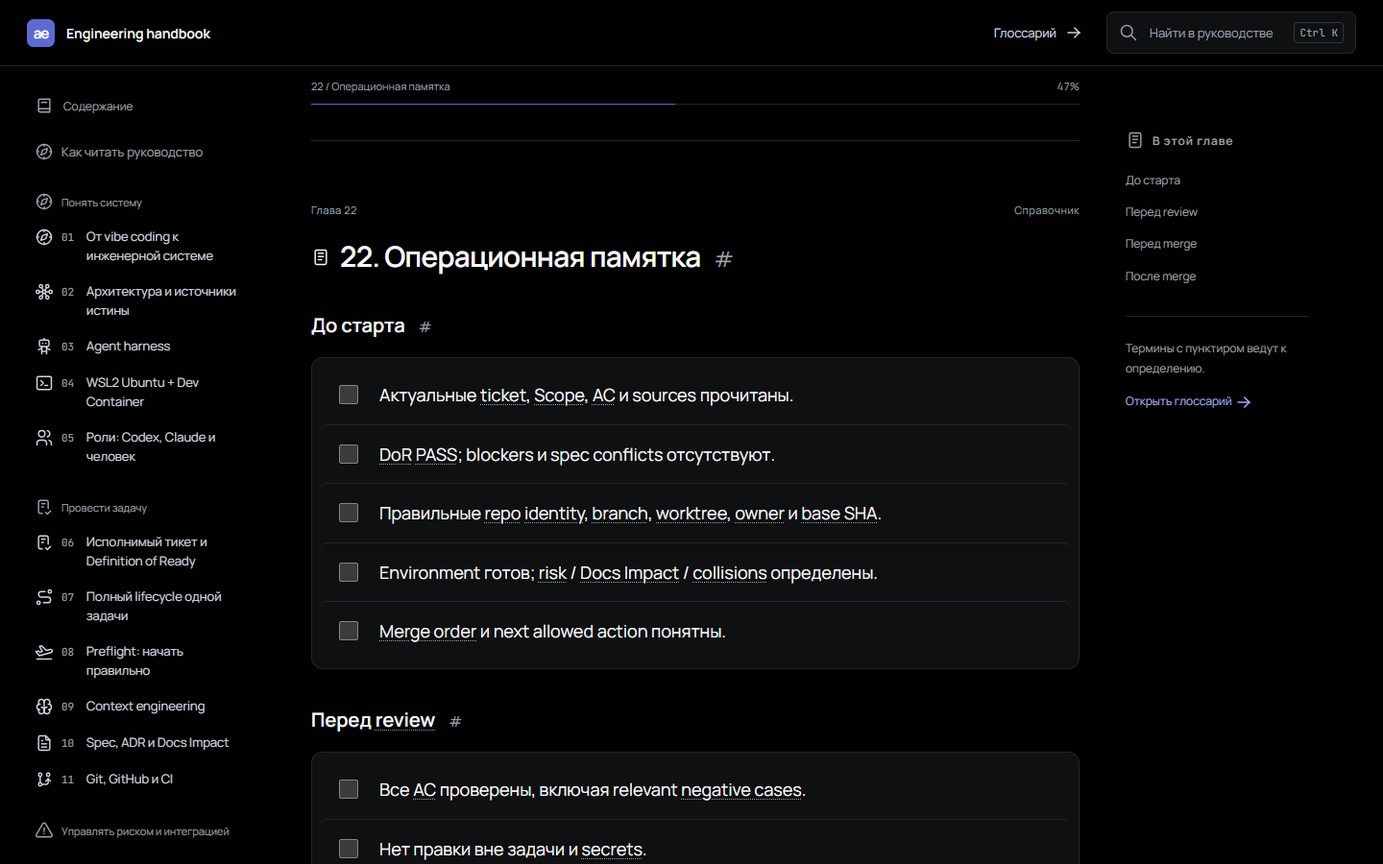
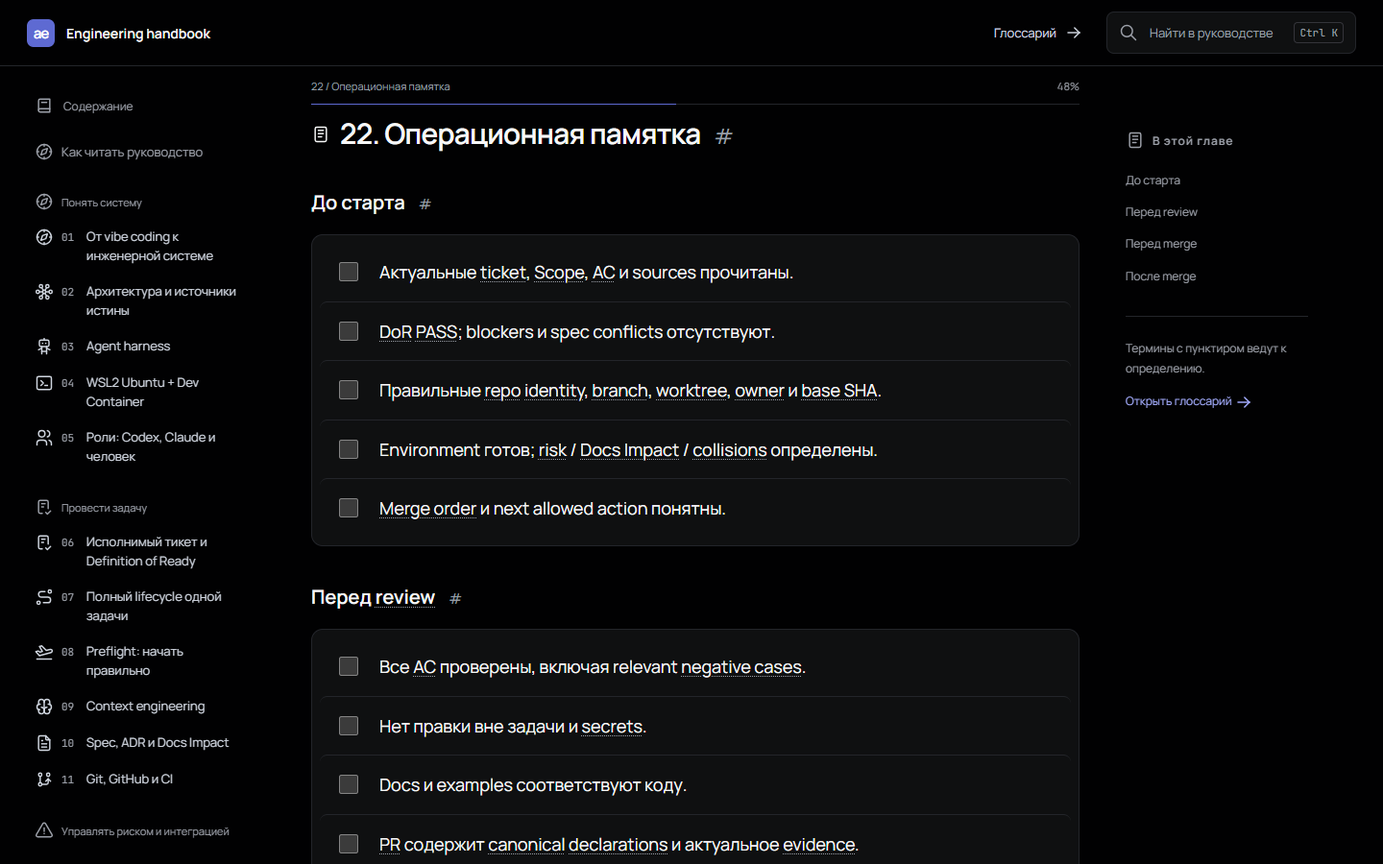
Update Site source

diff --git a/app/globals.css b/app/globals.css
@@ -5,7 +5,7 @@
 @font-face{font-family:'JetBrains Mono';src:url('/fonts/jetbrains-mono-latin-400.woff2') format('woff2');font-weight:400;font-display:swap}
 @font-face{font-family:'JetBrains Mono';src:url('/fonts/jetbrains-mono-cyrillic-400.woff2') format('woff2');font-weight:400;font-display:swap;unicode-range:U+0400-045F,U+0490-0491,U+04B0-04B1,U+2116}
 :root{color-scheme:dark;--canvas:#010102;--surface:#0f1011;--elevated:#141516;--text:#f7f8f8;--muted:#d0d6e0;--subtle:#9ca0a9;--line:#23252a;--strong-line:#34343a;--accent:#5e6ad2;--link:#a4adff;--focus:#a4adff;--body:1.125rem;--radius:12px;--icon-size:20px}
-*{box-sizing:border-box}html{scroll-padding-top:120px}body{margin:0;background:var(--canvas);color:var(--text);font-family:Manrope,'Segoe UI',sans-serif;-webkit-font-smoothing:antialiased;-moz-osx-font-smoothing:grayscale}button,input,select{font:inherit}button{cursor:pointer;color:var(--text);background:var(--surface);border:1px solid var(--strong-line);border-radius:8px;min-height:44px;padding:9px 14px}button:hover{background:var(--elevated)}a{color:var(--link);text-underline-offset:3px}a:hover{color:var(--text)}:focus-visible{outline:2px solid var(--focus);outline-offset:4px}input:not([type="checkbox"]):not([type="radio"]),select{color:var(--text);background:var(--canvas);border:1px solid var(--strong-line);border-radius:8px;padding:12px;min-height:44px;min-width:0;width:100%;font-size:1rem}label{font-size:.875rem}h1,h2,h3,h4,p{margin-top:0}h1,h2,h3{text-wrap:balance}::selection{background:#383f83;color:#fff}[hidden]{display:none!important}svg{flex-shrink:0}button svg,a svg{vertical-align:middle}.sr-only{position:absolute;width:1px;height:1px;padding:0;margin:-1px;overflow:hidden;clip:rect(0,0,0,0);white-space:nowrap;border:0}.skip-link{position:fixed;z-index:100;top:-80px;left:16px;background:var(--surface);padding:12px}.skip-link:focus{top:12px}.eyebrow{font-size:.75rem;letter-spacing:.08em;color:var(--subtle);font-weight:600}.topbar{position:sticky;top:0;z-index:20;background:var(--canvas);border-bottom:1px solid var(--line);min-height:68px;padding:12px 28px;display:flex;align-items:center;justify-content:space-between;gap:16px}.wordmark{display:flex;align-items:center;gap:12px;color:var(--text);text-decoration:none;font-size:.875rem;font-weight:600}.monogram{width:29px;height:29px;background:var(--accent);color:white;border-radius:7px;display:grid;place-items:center;font-size:15px;letter-spacing:-1px}.header-actions{display:flex;align-items:center;gap:24px}.header-glossary{color:var(--muted);text-decoration:none;font-size:.8125rem;display:flex;gap:8px;align-items:center}.search-trigger{display:flex;align-items:center;gap:12px;font-size:.8125rem;color:var(--subtle);padding:8px 12px;min-width:260px;justify-content:flex-start;border-color:var(--line)}kbd{font:11px 'JetBrains Mono',monospace;border:1px solid var(--strong-line);padding:3px 5px;border-radius:4px;margin-inline-start:auto}.menu-trigger{display:none}.reading-shell{display:grid;grid-template-columns:248px minmax(0,800px) 190px;gap:48px;max-width:1440px;margin:auto;padding:0 28px}.sidebar{position:sticky;top:92px;align-self:start;max-height:calc(100dvh - 116px);overflow-y:auto;scrollbar-width:thin;padding:8px 12px 24px 0}.sidebar-label{display:flex;gap:10px;align-items:center;font-size:.75rem;color:var(--subtle);margin:0 0 20px 8px}.orientation-link{display:block;font-size:.8125rem;color:var(--subtle);padding:8px;text-decoration:none}.nav-group{margin-top:24px}.nav-group>p{color:var(--subtle);font-size:.6875rem;margin:0 8px 8px}.nav-group a{display:flex;gap:12px;padding:9px 8px;font-size:.8125rem;line-height:1.5;color:var(--muted);text-decoration:none;border-radius:6px}.nav-group a:hover{background:var(--surface)}.nav-group a[aria-current]{background:var(--elevated);color:var(--text);box-shadow:inset 2px 0 var(--accent)}.chapter-number{font:11px 'JetBrains Mono',monospace;color:var(--subtle);padding-top:3px}.download{display:flex;align-items:center;gap:10px;margin-top:28px;padding:12px 8px;font-size:.8125rem;text-decoration:none;border-top:1px solid var(--line);color:var(--muted)}.sidebar-meta{font-size:.6875rem;line-height:1.7;color:var(--subtle);padding:8px}.reading-column{min-width:0}.chapter-sticky{position:sticky;top:68px;z-index:10;background:var(--canvas);padding:14px 0 12px;display:flex;justify-content:space-between;gap:16px;font-size:.6875rem;color:var(--subtle)}.chapter-sticky>span:first-child{overflow:hidden;text-overflow:ellipsis;white-space:nowrap}.progress-label{font-variant-numeric:tabular-nums;flex-shrink:0}.progress-track{height:1px;position:absolute;bottom:0;left:0;right:0;background:var(--line)}.progress-track div{background:var(--accent);height:100%}.local-outline{position:sticky;top:130px;align-self:start;padding-top:6px}.local-outline nav{display:flex;flex-direction:column;gap:14px;margin-top:22px}.local-outline nav a{font-size:.75rem;line-height:1.6;color:var(--subtle);text-decoration:none}.outline-note{margin-top:32px;padding-top:22px;border-top:1px solid var(--line);font-size:.75rem;line-height:1.8;color:var(--subtle)}.outline-note a{display:inline-block;margin-top:12px;text-decoration:none}.intro{padding:58px 0 24px}.intro-label{display:flex;gap:8px;align-items:center;margin-bottom:24px}.small-mark{width:5px;height:5px;background:var(--accent);border-radius:50%}.intro h1{font-size:clamp(2rem,3.3vw,3rem);font-weight:600;letter-spacing:-1.6px;line-height:1.17;margin-bottom:22px}.heading-dot{color:var(--accent)}.intro-description{color:var(--muted);font-size:1rem;line-height:1.8;max-width:590px;margin-bottom:24px}.intro-actions{display:flex;align-items:center;gap:24px;flex-wrap:wrap}.intro-actions a{display:flex;align-items:center;gap:24px;text-decoration:none;font-size:.8125rem;color:var(--muted);min-height:44px}.intro-actions .primary-action{padding:11px 16px;background:var(--accent);color:white;border-radius:8px}.intro-actions .primary-action:hover{background:#4d58be}.intro-meta{display:flex;justify-content:space-between;gap:16px;font-size:.6875rem;color:var(--subtle);border-top:1px solid var(--line);padding-top:22px;margin-top:32px}.reader-prose{font-size:var(--body);line-height:1.7;overflow-wrap:anywhere}.reader-prose p,.reader-prose ul,.reader-prose ol{margin-bottom:1.4em}.reader-prose h2{font-size:1.85rem;letter-spacing:-.7px;font-weight:600;line-height:1.3;margin:0 0 26px}.reader-prose h3{font-size:1.25rem;font-weight:600;line-height:1.5;margin:38px 0 18px}.reader-prose h4{font-size:1rem;font-weight:600;line-height:1.6}.reader-prose li{padding-inline-start:3px;margin-bottom:10px}.reader-prose ul,.reader-prose ol{padding-inline-start:23px}.reader-prose strong{font-weight:600;color:var(--text)}.reader-prose blockquote{padding:8px 20px;border-inline-start:2px solid var(--accent);margin:24px 0;color:var(--muted)}.reader-prose hr{border:0;border-top:1px solid var(--line);margin:40px 0}.reader-prose .term-link,.interactive-panel .term-link{color:inherit;text-decoration-line:underline;text-decoration-style:dotted;text-decoration-color:var(--subtle);text-decoration-thickness:1px;text-underline-offset:3px}.term-link:hover{color:var(--link)!important}.reader-prose code{font-family:'JetBrains Mono',Consolas,monospace;font-size:.83em;background:var(--surface);padding:2px 5px;border-radius:4px}.reader-prose pre{max-width:100%;overflow-x:auto;margin:0;padding:20px;line-height:1.7;white-space:pre}.reader-prose pre code{font-size:.8125rem;padding:0;background:none}.source-title{display:none}.orientation{font-size:.9375rem;color:var(--muted);padding-top:16px}.orientation h2{font-size:1.375rem}.orientation h3{font-size:1.1rem}.chapter{padding-top:64px;border-top:1px solid var(--line);margin-top:48px;scroll-margin-top:120px}.chapter-kicker{display:flex;justify-content:space-between;color:var(--subtle);font-size:.6875rem;letter-spacing:.04em;margin-bottom:22px}.permalink{font-size:.75em;color:var(--subtle);font-weight:400;padding:6px;margin-inline-start:8px;text-decoration:none}.reader-prose [id],#top,[id$='-panel']{scroll-margin-top:128px}.table-scroll{overflow-x:auto;margin:24px 0 32px;border:1px solid var(--line);border-radius:8px;max-width:100%;scrollbar-width:thin}.table-scroll table{border-collapse:collapse;width:100%;min-width:560px;font-size:.875rem;line-height:1.7}.table-scroll th{background:var(--surface);text-align:start;font-weight:600;color:var(--muted)}.table-scroll td,.table-scroll th{padding:14px 16px;border-bottom:1px solid var(--line);vertical-align:top}.table-scroll tr:last-child td{border-bottom:0}.table-scroll:after{content:'↔ Таблицу можно прокрутить';display:block;font-size:.6875rem;color:var(--subtle);padding:8px 16px;background:var(--surface)}.deep-dive{background:var(--surface);border:1px solid var(--line);border-radius:var(--radius);margin:24px 0}.deep-dive>summary{cursor:pointer;padding:15px 18px;font-size:.8755rem;color:var(--muted)}.code-toolbar{display:flex;align-items:center;justify-content:space-between;gap:12px;font:11px 'JetBrains Mono',monospace;padding:12px 18px;border-block:1px solid var(--line);color:var(--subtle)}.code-toolbar button{font-size:.75rem;min-height:36px}.code-terms{font-size:.75rem!important;line-height:1.8!important;color:var(--subtle);padding:14px 18px;border-top:1px solid var(--line);margin:0!important}.mermaid-figure{margin:32px 0;border:1px solid var(--line);border-radius:var(--radius);background:var(--surface);padding:18px 0}.mermaid-figure figcaption{font-size:.75rem;color:var(--subtle);padding:0 18px;margin-bottom:16px}.diagram-render{overflow:auto;padding:12px}.diagram-render svg{max-width:100%;height:auto}.diagram-source{font-size:.75rem;color:var(--muted)}.diagram-source summary{padding:12px 18px;cursor:pointer}.diagram-source pre{font-size:.75rem}.mermaid-figure:not(.diagram-ready) .diagram-source>pre{display:block}.interactive-panel{margin-top:36px;border:1px solid var(--strong-line);background:var(--surface);border-radius:16px;padding:24px}.panel-heading h3{font-size:1.375rem;line-height:1.4;margin:12px 0 24px;letter-spacing:-.4px}.panel-workspace{display:grid;grid-template-columns:minmax(160px,1fr) minmax(0,1.7fr);gap:24px}.node-list{display:flex;flex-direction:column;gap:9px}.node-list button{text-align:start;position:relative;display:flex;align-items:center;gap:12px;font-size:.8125rem;line-height:1.4;background:var(--canvas);border-color:var(--line);padding:12px}.node-list button[aria-pressed=true]{border-color:var(--accent);background:#181a2b}.node-number{font:10px 'JetBrains Mono',monospace;color:var(--subtle)}.node-arrow{position:absolute;bottom:-11px;left:21px;font-size:10px;color:var(--subtle);z-index:1}.panel-detail{border:1px solid var(--line);border-radius:12px;padding:22px;align-self:start;min-width:0}.panel-detail h4{font-size:1.25rem;line-height:1.4;margin:16px 0}.panel-detail p,.scenario-result p{font-size:.875rem;line-height:1.9;color:var(--muted);overflow-wrap:anywhere;margin:0}.panel-chapter{display:block;font-size:.75rem;text-decoration:none;margin-top:24px}.static-panel{font-size:.8125rem;line-height:1.8;margin-top:22px;color:var(--muted)}.static-panel summary{cursor:pointer;min-height:44px;padding:12px 0}.static-panel h4{margin:18px 0 8px;font-weight:600}.scenarios{border:0;padding:0;margin:0 0 24px;display:flex;gap:12px;flex-wrap:wrap}.scenarios legend{font-size:.75rem;color:var(--subtle);margin-bottom:12px}.scenarios label{display:flex;gap:8px;align-items:center;font-size:.75rem;padding:8px 10px;border:1px solid var(--strong-line);border-radius:8px;min-height:44px;cursor:pointer}.scenarios input{width:15px;min-height:auto;margin:0;accent-color:var(--accent)}.scenario-result{border-top:1px solid var(--line);padding-top:20px;margin-top:24px}.collision-diagram{width:100%;color:var(--link);margin-top:20px;font:12px 'JetBrains Mono',monospace}.maturity .panel-workspace{grid-template-columns:1fr}.maturity .node-list{flex-direction:row;flex-wrap:wrap}.maturity .node-list button{flex:1 0 150px}.maturity .node-arrow{display:none}.chapter-pagination{display:grid;grid-template-columns:1fr 1fr;gap:24px;margin-top:40px;padding-top:24px;border-top:1px solid var(--line)}.chapter-pagination a{text-decoration:none;display:flex;flex-direction:column;gap:8px;color:var(--muted);font-size:.8125rem;line-height:1.6}.chapter-pagination a:last-child{text-align:end}.chapter-pagination span{color:var(--subtle);font-size:.6875rem}.chapter-pagination strong{font-weight:400}.glossary-list{margin:20px 0}.term-definition{padding:22px 0;border-bottom:1px solid var(--line);scroll-margin-top:128px}.term-definition h4{margin:0 0 10px;font-size:.9375rem;line-height:1.8;font-weight:400;color:var(--subtle)}.term-definition h4 strong{color:var(--text)}.term-definition p{font-size:.9375rem;line-height:1.85;color:var(--muted);margin:0}.term-arrival,.term-definition:target{background:#181a2b;outline:1px solid var(--accent);outline-offset:8px;border-radius:4px}.js-enabled .term-definition:target:not(.term-arrival){background:transparent;outline:0}.glossary-filter{background:var(--surface);border:1px solid var(--line);border-radius:12px;padding:24px;margin:24px 0}.glossary-filter h3{font-size:1.125rem}.filter-fields{display:flex;gap:16px;flex-wrap:wrap}.filter-fields label{flex:1 0 200px;display:flex;flex-direction:column;gap:8px}.glossary-filter p{font-size:.75rem;line-height:1.8;color:var(--subtle);margin:16px 0}.glossary-filter button{font-size:.8125rem}.reader-footer{font-size:.8125rem;line-height:1.8;color:var(--subtle);margin:64px 0 48px;border-top:1px solid var(--line);padding-top:32px;display:flex;gap:20px;flex-wrap:wrap}.reader-footer p{flex:1 0 100%;margin:0}.reader-footer a{text-decoration:none}.reader-footer button{display:flex;align-items:center;gap:8px;font-size:.75rem}.resume-button{font-size:.75rem;margin-top:18px}.return-reading{position:fixed;bottom:20px;right:20px;z-index:18;font-size:.75rem}.search-dialog,.drawer{background:var(--surface);color:var(--text);border:1px solid var(--strong-line);border-radius:16px;padding:24px;overscroll-behavior:contain;max-height:85dvh;overflow-y:auto}.search-dialog{width:min(680px,calc(100% - 32px));margin:12vh auto auto}.search-dialog::backdrop,.drawer::backdrop{background:#000b}.dialog-header{display:flex;justify-content:space-between;align-items:center;gap:16px;margin-bottom:22px}.dialog-header h2{font-size:1.125rem;line-height:1.5;margin:0;font-weight:600}.dialog-header button{border:0;padding:10px;background:transparent;display:grid;place-items:center}.search-field{display:flex;align-items:center;gap:10px;border:1px solid var(--strong-line);border-radius:8px;padding:0 12px;margin:10px 0 22px}.search-field:focus-within{outline:2px solid var(--focus);outline-offset:2px}.search-field input{background:transparent;border:0;padding:14px 0;outline:0;min-width:0}.search-field button{border:0;background:none;padding:6px;min-width:36px}.search-results{display:flex;flex-direction:column;gap:8px;max-height:52dvh;overflow:auto}.search-results>a{display:flex;flex-direction:column;gap:8px;padding:14px;border:1px solid transparent;border-radius:8px;text-decoration:none;font-size:.8125rem;line-height:1.8;color:var(--muted)}.search-results>a.selected,.search-results>a:hover{background:var(--elevated);border-color:var(--strong-line)}.search-results strong{font-weight:600;color:var(--text)}.result-meta{font-size:.6875rem;color:var(--subtle)}mark{color:var(--text);background:#383f83;padding:0 2px;border-radius:2px}.search-count,.empty-state{font-size:.8125rem;color:var(--subtle);line-height:1.8}.search-count{margin:18px 0 0}.empty-state{padding:16px 0}.drawer{position:fixed;inset:0 0 0 auto;width:min(350px,90vw);max-height:100dvh;margin:0;border-radius:0;padding:20px}.no-js-note{padding:20px;color:var(--muted)}
+*{box-sizing:border-box}html{scroll-padding-top:120px}body{margin:0;background:var(--canvas);color:var(--text);font-family:Manrope,'Segoe UI',sans-serif;-webkit-font-smoothing:antialiased;-moz-osx-font-smoothing:grayscale}button,input,select{font:inherit}button{cursor:pointer;color:var(--text);background:var(--surface);border:1px solid var(--strong-line);border-radius:8px;min-height:44px;padding:9px 14px}button:hover{background:var(--elevated)}a{color:var(--link);text-underline-offset:3px}a:hover{color:var(--text)}:focus-visible{outline:2px solid var(--focus);outline-offset:4px}input:not([type="checkbox"]):not([type="radio"]),select{color:var(--text);background:var(--canvas);border:1px solid var(--strong-line);border-radius:8px;padding:12px;min-height:44px;min-width:0;width:100%;font-size:1rem}label{font-size:.875rem}h1,h2,h3,h4,p{margin-top:0}h1,h2,h3{text-wrap:balance}::selection{background:#383f83;color:#fff}[hidden]{display:none!important}svg{flex-shrink:0}button svg,a svg{vertical-align:middle}.sr-only{position:absolute;width:1px;height:1px;padding:0;margin:-1px;overflow:hidden;clip:rect(0,0,0,0);white-space:nowrap;border:0}.skip-link{position:fixed;z-index:100;top:-80px;left:16px;background:var(--surface);padding:12px}.skip-link:focus{top:12px}.eyebrow{font-size:.75rem;letter-spacing:.08em;color:var(--subtle);font-weight:600}.topbar{position:sticky;top:0;z-index:20;background:var(--canvas);border-bottom:1px solid var(--line);min-height:68px;padding:12px 28px;display:flex;align-items:center;justify-content:space-between;gap:16px}.wordmark{display:flex;align-items:center;gap:12px;color:var(--text);text-decoration:none;font-size:.875rem;font-weight:600}.monogram{width:29px;height:29px;background:var(--accent);color:white;border-radius:7px;display:grid;place-items:center;font-size:15px;letter-spacing:-1px}.header-actions{display:flex;align-items:center;gap:24px}.header-glossary{color:var(--muted);text-decoration:none;font-size:.8125rem;display:flex;gap:8px;align-items:center}.search-trigger{display:flex;align-items:center;gap:12px;font-size:.8125rem;color:var(--subtle);padding:8px 12px;min-width:260px;justify-content:flex-start;border-color:var(--line)}kbd{font:11px 'JetBrains Mono',monospace;border:1px solid var(--strong-line);padding:3px 5px;border-radius:4px;margin-inline-start:auto}.menu-trigger{display:none}.reading-shell{display:grid;grid-template-columns:248px minmax(0,800px) 190px;gap:48px;max-width:1440px;margin:auto;padding:0 28px}.sidebar{position:sticky;top:92px;align-self:start;max-height:calc(100dvh - 116px);overflow-y:auto;scrollbar-width:thin;padding:8px 12px 24px 0}.sidebar-label{display:flex;gap:10px;align-items:center;font-size:.75rem;color:var(--subtle);margin:0 0 20px 8px}.orientation-link{display:block;font-size:.8125rem;color:var(--subtle);padding:8px;text-decoration:none}.nav-group{margin-top:24px}.nav-group>p{color:var(--subtle);font-size:.6875rem;margin:0 8px 8px}.nav-group a{display:flex;gap:12px;padding:9px 8px;font-size:.8125rem;line-height:1.5;color:var(--muted);text-decoration:none;border-radius:6px}.nav-group a:hover{background:var(--surface)}.nav-group a[aria-current]{background:var(--elevated);color:var(--text);box-shadow:inset 2px 0 var(--accent)}.chapter-number{font:11px 'JetBrains Mono',monospace;color:var(--subtle);padding-top:3px}.download{display:flex;align-items:center;gap:10px;margin-top:28px;padding:12px 8px;font-size:.8125rem;text-decoration:none;border-top:1px solid var(--line);color:var(--muted)}.sidebar-meta{font-size:.6875rem;line-height:1.7;color:var(--subtle);padding:8px}.reading-column{min-width:0}.chapter-sticky{position:sticky;top:68px;z-index:10;background:var(--canvas);padding:14px 0 12px;display:flex;justify-content:space-between;gap:16px;font-size:.6875rem;color:var(--subtle)}.chapter-sticky>span:first-child{overflow:hidden;text-overflow:ellipsis;white-space:nowrap}.progress-label{font-variant-numeric:tabular-nums;flex-shrink:0}.progress-track{height:1px;position:absolute;bottom:0;left:0;right:0;background:var(--line)}.progress-track div{background:var(--accent);height:100%}.local-outline{position:sticky;top:130px;align-self:start;padding-top:6px}.local-outline nav{display:flex;flex-direction:column;gap:14px;margin-top:22px}.local-outline nav a{font-size:.75rem;line-height:1.6;color:var(--subtle);text-decoration:none}.outline-note{margin-top:32px;padding-top:22px;border-top:1px solid var(--line);font-size:.75rem;line-height:1.8;color:var(--subtle)}.outline-note a{display:inline-block;margin-top:12px;text-decoration:none}.intro{padding:58px 0 24px}.intro-label{display:flex;gap:8px;align-items:center;margin-bottom:24px}.small-mark{width:5px;height:5px;background:var(--accent);border-radius:50%}.intro h1{font-size:clamp(2rem,3.3vw,3rem);font-weight:600;letter-spacing:-1.6px;line-height:1.17;margin-bottom:22px}.heading-dot{color:var(--accent)}.intro-description{color:var(--muted);font-size:1rem;line-height:1.8;max-width:590px;margin-bottom:24px}.intro-actions{display:flex;align-items:center;gap:24px;flex-wrap:wrap}.intro-actions a{display:flex;align-items:center;gap:24px;text-decoration:none;font-size:.8125rem;color:var(--muted);min-height:44px}.intro-actions .primary-action{padding:11px 16px;background:var(--accent);color:white;border-radius:8px}.intro-actions .primary-action:hover{background:#4d58be}.intro-meta{display:flex;justify-content:space-between;gap:16px;font-size:.6875rem;color:var(--subtle);border-top:1px solid var(--line);padding-top:22px;margin-top:32px}.reader-prose{font-size:var(--body);line-height:1.7;overflow-wrap:anywhere}.reader-prose p,.reader-prose ul,.reader-prose ol{margin-bottom:1.4em}.reader-prose h2{font-size:1.85rem;letter-spacing:-.7px;font-weight:600;line-height:1.3;margin:0 0 26px}.reader-prose h3{font-size:1.25rem;font-weight:600;line-height:1.5;margin:38px 0 18px}.reader-prose h4{font-size:1rem;font-weight:600;line-height:1.6}.reader-prose li{padding-inline-start:3px;margin-bottom:10px}.reader-prose ul,.reader-prose ol{padding-inline-start:23px}.reader-prose strong{font-weight:600;color:var(--text)}.reader-prose blockquote{padding:8px 20px;border-inline-start:2px solid var(--accent);margin:24px 0;color:var(--muted)}.reader-prose hr{border:0;border-top:1px solid var(--line);margin:40px 0}.reader-prose .term-link,.interactive-panel .term-link{color:inherit;text-decoration-line:underline;text-decoration-style:dotted;text-decoration-color:var(--subtle);text-decoration-thickness:1px;text-underline-offset:3px}.term-link:hover{color:var(--link)!important}.reader-prose code{font-family:'JetBrains Mono',Consolas,monospace;font-size:.83em;background:var(--surface);padding:2px 5px;border-radius:4px}.reader-prose pre{max-width:100%;overflow-x:auto;margin:0;padding:20px;line-height:1.7;white-space:pre}.reader-prose pre code{font-size:.8125rem;padding:0;background:none}.source-title{display:none}.orientation{font-size:.9375rem;color:var(--muted);padding-top:16px}.orientation h2{font-size:1.375rem}.orientation h3{font-size:1.1rem}.chapter{padding-top:64px;border-top:1px solid var(--line);margin-top:48px;scroll-margin-top:0}.chapter-kicker{display:flex;justify-content:space-between;color:var(--subtle);font-size:.6875rem;letter-spacing:.04em;margin-bottom:22px}.permalink{font-size:.75em;color:var(--subtle);font-weight:400;padding:6px;margin-inline-start:8px;text-decoration:none}.reader-prose [id],#top,[id$='-panel']{scroll-margin-top:0}.table-scroll{overflow-x:auto;margin:24px 0 32px;border:1px solid var(--line);border-radius:8px;max-width:100%;scrollbar-width:thin}.table-scroll table{border-collapse:collapse;width:100%;min-width:560px;font-size:.875rem;line-height:1.7}.table-scroll th{background:var(--surface);text-align:start;font-weight:600;color:var(--muted)}.table-scroll td,.table-scroll th{padding:14px 16px;border-bottom:1px solid var(--line);vertical-align:top}.table-scroll tr:last-child td{border-bottom:0}.table-scroll:after{content:'↔ Таблицу можно прокрутить';display:block;font-size:.6875rem;color:var(--subtle);padding:8px 16px;background:var(--surface)}.deep-dive{background:var(--surface);border:1px solid var(--line);border-radius:var(--radius);margin:24px 0}.deep-dive>summary{cursor:pointer;padding:15px 18px;font-size:.8755rem;color:var(--muted)}.code-toolbar{display:flex;align-items:center;justify-content:space-between;gap:12px;font:11px 'JetBrains Mono',monospace;padding:12px 18px;border-block:1px solid var(--line);color:var(--subtle)}.code-toolbar button{font-size:.75rem;min-height:36px}.code-terms{font-size:.75rem!important;line-height:1.8!important;color:var(--subtle);padding:14px 18px;border-top:1px solid var(--line);margin:0!important}.mermaid-figure{margin:32px 0;border:1px solid var(--line);border-radius:var(--radius);background:var(--surface);padding:18px 0}.mermaid-figure figcaption{font-size:.75rem;color:var(--subtle);padding:0 18px;margin-bottom:16px}.diagram-render{overflow:auto;padding:12px}.diagram-render svg{max-width:100%;height:auto}.diagram-source{font-size:.75rem;color:var(--muted)}.diagram-source summary{padding:12px 18px;cursor:pointer}.diagram-source pre{font-size:.75rem}.mermaid-figure:not(.diagram-ready) .diagram-source>pre{display:block}.interactive-panel{margin-top:36px;border:1px solid var(--strong-line);background:var(--surface);border-radius:16px;padding:24px}.panel-heading h3{font-size:1.375rem;line-height:1.4;margin:12px 0 24px;letter-spacing:-.4px}.panel-workspace{display:grid;grid-template-columns:minmax(160px,1fr) minmax(0,1.7fr);gap:24px}.node-list{display:flex;flex-direction:column;gap:9px}.node-list button{text-align:start;position:relative;display:flex;align-items:center;gap:12px;font-size:.8125rem;line-height:1.4;background:var(--canvas);border-color:var(--line);padding:12px}.node-list button[aria-pressed=true]{border-color:var(--accent);background:#181a2b}.node-number{font:10px 'JetBrains Mono',monospace;color:var(--subtle)}.node-arrow{position:absolute;bottom:-11px;left:21px;font-size:10px;color:var(--subtle);z-index:1}.panel-detail{border:1px solid var(--line);border-radius:12px;padding:22px;align-self:start;min-width:0}.panel-detail h4{font-size:1.25rem;line-height:1.4;margin:16px 0}.panel-detail p,.scenario-result p{font-size:.875rem;line-height:1.9;color:var(--muted);overflow-wrap:anywhere;margin:0}.panel-chapter{display:block;font-size:.75rem;text-decoration:none;margin-top:24px}.static-panel{font-size:.8125rem;line-height:1.8;margin-top:22px;color:var(--muted)}.static-panel summary{cursor:pointer;min-height:44px;padding:12px 0}.static-panel h4{margin:18px 0 8px;font-weight:600}.scenarios{border:0;padding:0;margin:0 0 24px;display:flex;gap:12px;flex-wrap:wrap}.scenarios legend{font-size:.75rem;color:var(--subtle);margin-bottom:12px}.scenarios label{display:flex;gap:8px;align-items:center;font-size:.75rem;padding:8px 10px;border:1px solid var(--strong-line);border-radius:8px;min-height:44px;cursor:pointer}.scenarios input{width:15px;min-height:auto;margin:0;accent-color:var(--accent)}.scenario-result{border-top:1px solid var(--line);padding-top:20px;margin-top:24px}.collision-diagram{width:100%;color:var(--link);margin-top:20px;font:12px 'JetBrains Mono',monospace}.maturity .panel-workspace{grid-template-columns:1fr}.maturity .node-list{flex-direction:row;flex-wrap:wrap}.maturity .node-list button{flex:1 0 150px}.maturity .node-arrow{display:none}.chapter-pagination{display:grid;grid-template-columns:1fr 1fr;gap:24px;margin-top:40px;padding-top:24px;border-top:1px solid var(--line)}.chapter-pagination a{text-decoration:none;display:flex;flex-direction:column;gap:8px;color:var(--muted);font-size:.8125rem;line-height:1.6}.chapter-pagination a:last-child{text-align:end}.chapter-pagination span{color:var(--subtle);font-size:.6875rem}.chapter-pagination strong{font-weight:400}.glossary-list{margin:20px 0}.term-definition{padding:22px 0;border-bottom:1px solid var(--line);scroll-margin-top:0}.term-definition h4{margin:0 0 10px;font-size:.9375rem;line-height:1.8;font-weight:400;color:var(--subtle)}.term-definition h4 strong{color:var(--text)}.term-definition p{font-size:.9375rem;line-height:1.85;color:var(--muted);margin:0}.term-arrival,.term-definition:target{background:#181a2b;outline:1px solid var(--accent);outline-offset:8px;border-radius:4px}.js-enabled .term-definition:target:not(.term-arrival){background:transparent;outline:0}.glossary-filter{background:var(--surface);border:1px solid var(--line);border-radius:12px;padding:24px;margin:24px 0}.glossary-filter h3{font-size:1.125rem}.filter-fields{display:flex;gap:16px;flex-wrap:wrap}.filter-fields label{flex:1 0 200px;display:flex;flex-direction:column;gap:8px}.glossary-filter p{font-size:.75rem;line-height:1.8;color:var(--subtle);margin:16px 0}.glossary-filter button{font-size:.8125rem}.reader-footer{font-size:.8125rem;line-height:1.8;color:var(--subtle);margin:64px 0 48px;border-top:1px solid var(--line);padding-top:32px;display:flex;gap:20px;flex-wrap:wrap}.reader-footer p{flex:1 0 100%;margin:0}.reader-footer a{text-decoration:none}.reader-footer button{display:flex;align-items:center;gap:8px;font-size:.75rem}.resume-button{font-size:.75rem;margin-top:18px}.return-reading{position:fixed;bottom:20px;right:20px;z-index:18;font-size:.75rem}.search-dialog,.drawer{background:var(--surface);color:var(--text);border:1px solid var(--strong-line);border-radius:16px;padding:24px;overscroll-behavior:contain;max-height:85dvh;overflow-y:auto}.search-dialog{width:min(680px,calc(100% - 32px));margin:12vh auto auto}.search-dialog::backdrop,.drawer::backdrop{background:#000b}.dialog-header{display:flex;justify-content:space-between;align-items:center;gap:16px;margin-bottom:22px}.dialog-header h2{font-size:1.125rem;line-height:1.5;margin:0;font-weight:600}.dialog-header button{border:0;padding:10px;background:transparent;display:grid;place-items:center}.search-field{display:flex;align-items:center;gap:10px;border:1px solid var(--strong-line);border-radius:8px;padding:0 12px;margin:10px 0 22px}.search-field:focus-within{outline:2px solid var(--focus);outline-offset:2px}.search-field input{background:transparent;border:0;padding:14px 0;outline:0;min-width:0}.search-field button{border:0;background:none;padding:6px;min-width:36px}.search-results{display:flex;flex-direction:column;gap:8px;max-height:52dvh;overflow:auto}.search-results>a{display:flex;flex-direction:column;gap:8px;padding:14px;border:1px solid transparent;border-radius:8px;text-decoration:none;font-size:.8125rem;line-height:1.8;color:var(--muted)}.search-results>a.selected,.search-results>a:hover{background:var(--elevated);border-color:var(--strong-line)}.search-results strong{font-weight:600;color:var(--text)}.result-meta{font-size:.6875rem;color:var(--subtle)}mark{color:var(--text);background:#383f83;padding:0 2px;border-radius:2px}.search-count,.empty-state{font-size:.8125rem;color:var(--subtle);line-height:1.8}.search-count{margin:18px 0 0}.empty-state{padding:16px 0}.drawer{position:fixed;inset:0 0 0 auto;width:min(350px,90vw);max-height:100dvh;margin:0;border-radius:0;padding:20px}.no-js-note{padding:20px;color:var(--muted)}
 @media(min-width:1200px) and (max-width:1350px){.reading-shell{grid-template-columns:248px minmax(0,1fr);gap:40px;max-width:1180px}.local-outline{display:none}}
 @media(max-width:1199px){.reading-shell{display:block;max-width:850px;padding:0 32px}.sidebar,.local-outline{display:none}.menu-trigger{display:grid;place-items:center;min-width:44px;border:0;background:transparent;padding:8px}.topbar{padding-inline:24px}.intro{padding-top:48px}}
 @media(max-width:767px){:root{--body:1rem}.topbar{min-height:60px;padding:8px 16px}.wordmark{font-size:.75rem;gap:8px}.header-actions{gap:4px}.header-glossary,.search-trigger span,.search-trigger kbd{display:none}.search-trigger{min-width:44px;min-height:44px;justify-content:center;padding:10px;background:transparent;border:0}.monogram{width:26px;height:26px}.reading-shell{padding:0 20px}.chapter-sticky{top:60px;padding:13px 0;font-size:.625rem}.intro{padding-top:36px}.intro h1{font-size:2rem;letter-spacing:-1px}.intro-description{font-size:.9375rem}.intro-meta{flex-direction:column;gap:6px}.intro-actions{gap:12px}.intro-actions a{font-size:.75rem;gap:12px}.reader-prose h2{font-size:1.5rem}.reader-prose h3{font-size:1.125rem}.orientation{font-size:.875rem}.chapter{padding-top:36px;margin-top:36px}.chapter-kicker{font-size:.625rem}.panel-workspace{grid-template-columns:1fr}.interactive-panel{padding:18px;border-radius:12px}.node-list{display:grid;grid-template-columns:1fr 1fr}.node-list button{font-size:.75rem;gap:8px;padding:10px}.node-arrow{display:none}.panel-detail{padding:18px}.panel-heading h3{font-size:1.2rem}.scenarios{gap:8px}.scenarios label{font-size:.6875rem}.chapter-pagination{gap:16px}.chapter-pagination strong{font-size:.75rem}.glossary-filter{padding:18px}.search-dialog{padding:18px;margin-top:6vh}.search-field>svg{display:none}.search-field{padding-inline:10px}.term-definition h4,.term-definition p{font-size:.875rem}}

diff --git a/tests/browser/reader.spec.ts b/tests/browser/reader.spec.ts
@@ -8,7 +8,7 @@ test('operational checklists have compact aligned controls, individual names and
   expect(layout.length).toBeGreaterThan(10);for(const row of layout){expect(row.width).toBe(20);expect(row.height).toBe(20);}expect(new Set(layout.map(n=>n.name)).size).toBe(layout.length);
   const first=checks.first();await first.focus();await page.keyboard.press('Space');await expect(first).toBeChecked();await page.reload();await expect(first).toBeChecked();
   await page.getByRole('button',{name:'Сбросить учебные отметки'}).click();await expect(first).not.toBeChecked();
-  for(const width of [320,360,768,1024,1440]){await page.setViewportSize({width,height:900});await page.locator('#ch-22').scrollIntoViewIfNeeded();expect(await page.evaluate(()=>document.documentElement.scrollWidth<=innerWidth)).toBe(true);}
+  for(const width of [320,360,768,1024,1440]){await page.setViewportSize({width,height:900});await page.locator('#ch-22').evaluate(n=>n.scrollIntoView({block:'start'}));expect(await page.evaluate(()=>document.documentElement.scrollWidth<=innerWidth)).toBe(true);expect(await page.locator('#ch-22').evaluate(n=>n.getBoundingClientRect().top)).toBeLessThanOrEqual(160);await expect(page.locator('.chapter-sticky>span').first()).toContainText('22 /');}
   await page.locator('#ch-22').evaluate(n=>n.scrollIntoView({block:'start'}));await page.screenshot({path:'docs/screenshots/checklist-desktop.png'});await page.setViewportSize({width:360,height:900});await page.locator('#ch-22').evaluate(n=>n.scrollIntoView({block:'start'}));await page.screenshot({path:'docs/screenshots/checklist-mobile.png'});
 });
 test('form controls remain usable at narrow widths and dropdown/disclosures support keyboard',async({page})=>{

diff --git a/docs/controls-audit.md b/docs/controls-audit.md
@@ -14,10 +14,13 @@
 | Radio controls наследуют стили text fields | Частичные overrides ширины/min-height | Отдельные dimensions/padding; selected scenario имеет видимый фон/границу и focus state |
 | Dropdown и filter fields | Browser arrow и свободная ширина flex label | Native select сохранён; Tabler ChevronDown, достаточный right padding, mobile stack, длинные значения не расширяют страницу |
 | Неодинаковые состояния controls | Неявные placeholders и disabled appearance | Явный muted placeholder, hover borders, disabled appearance; reset не активен до hydration |
+| Переход к главе оставляет неверный active chapter на mobile | Одновременно scroll-padding 120px и scroll-margin 128px: heading top 247.6px | Единственный offset на html; target виден под sticky chrome, active chapter соответствует переходу |
 
 ## Проверка
 
 Regression сначала воспроизвёл ошибку: expected checkbox width 20, received 774. После исправления прошли keyboard Space, persistence/reload/reset и индивидуальные names всех пунктов. Label clickable area измерена: 44px, focus outline 2px, checked state работает. Text input/select в mobile filter — 48px height, reset button — 44px; поля остаются внутри контейнера.
+
+Отдельный regression воспроизвёл двойной navigation offset: expected heading top <=160px, received 247.6px. После устранения margin duplication проверяется положение заголовка и active chapter на всех пяти ширинах.
 
 11 browser tests passed: дополнительно narrow-width form geometry, dropdown keyboard selection/reset, radio dimensions и Enter disclosure toggle. Остальные tests покрывают search/clear/close, drawer, glossary navigation, panel selection, copy success/failure, storage denial, print/no-JS, axe и Mermaid. Typecheck, ESLint и 4 content tests passed. Учебный source/download не изменён; 0 unexplained glossary gaps.
 
